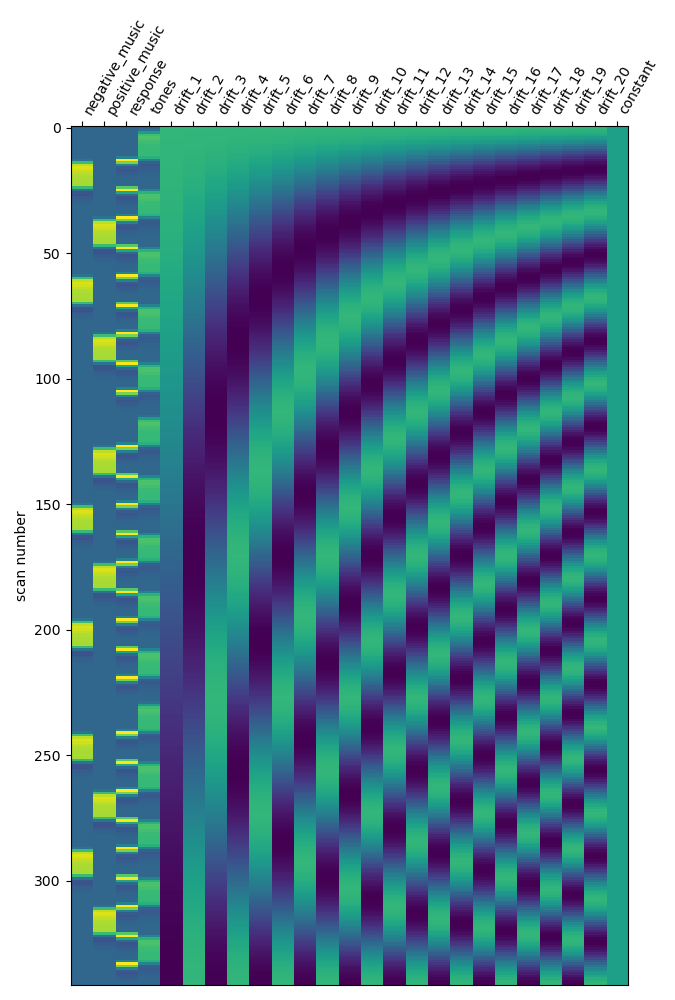
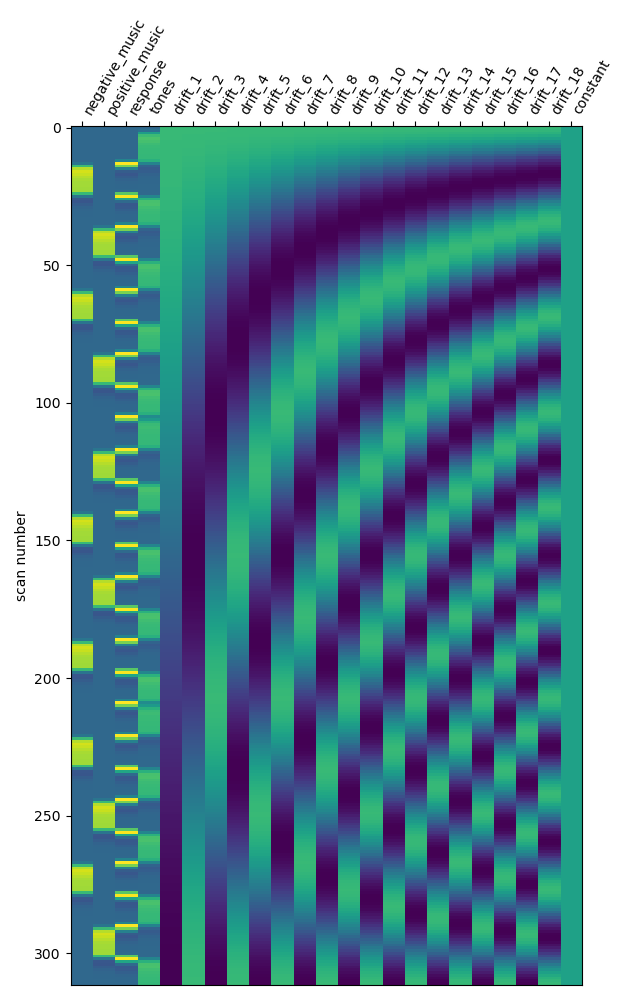
design matrix correction

diff --git a/src/run_create_design_matrix.py b/src/run_create_design_matrix.py
@@ -22,7 +22,7 @@ def create_design_matrix():
     # Load the functional image to extract TR and run durations
     img = nib.load(os.path.join(base_dir, "func", "sub-control01_task-music_run-1_bold.nii.gz"))
     TR = img.header.get_zooms()[3]
-    run_durations = [events[i]['onset'].max() + events[i]['duration'].max() for i in range(3)]
+    run_durations = [events[i]['onset'].iloc[-1] + events[i]['duration'].iloc[-1] for i in range(3)]
 
 
 
